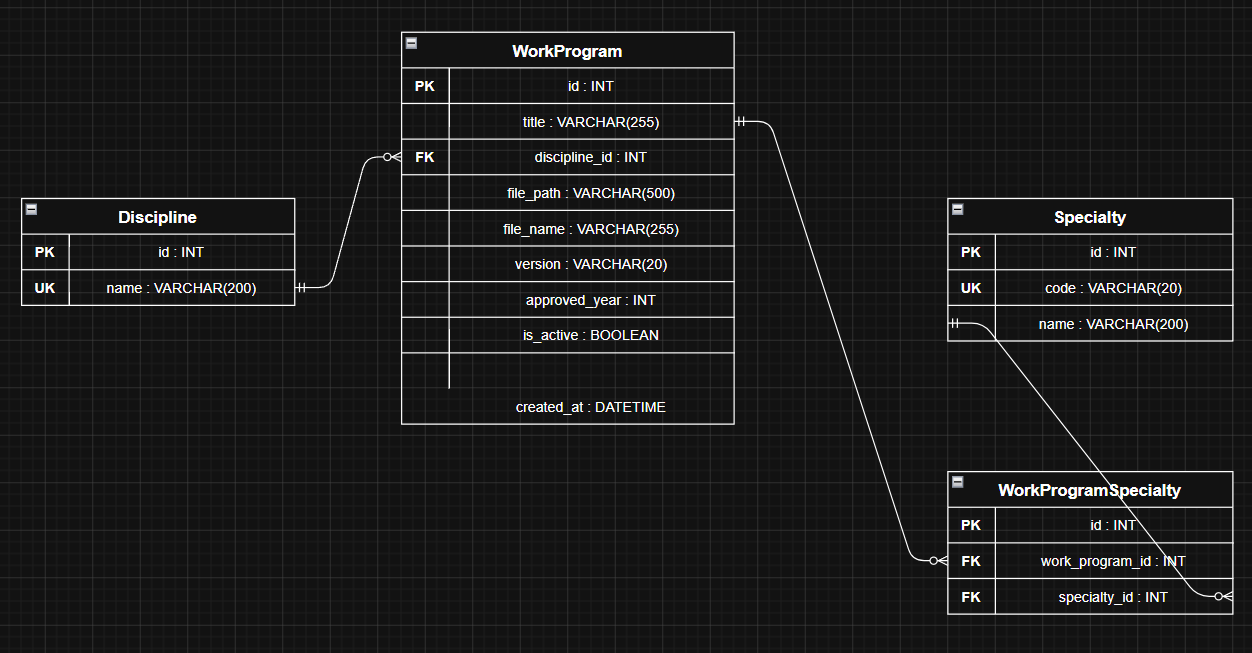
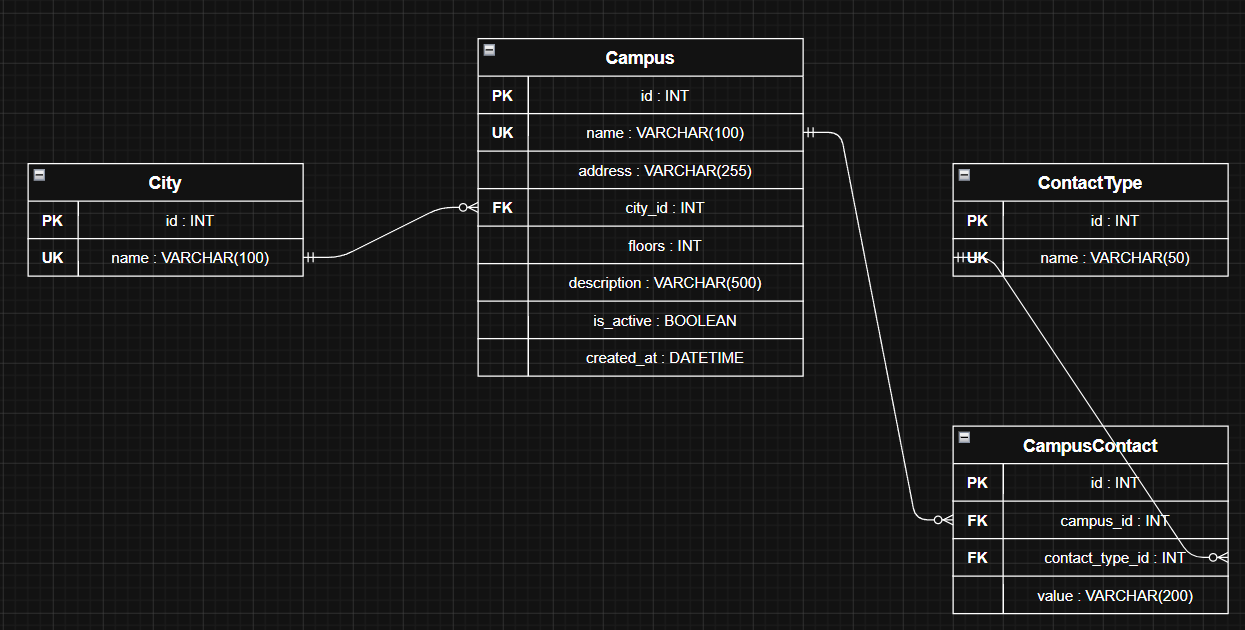
Исправлены замечания

diff --git a/S16/models.py b/S16/models.py
@@ -21,6 +21,15 @@ class City(BaseModel):
         table_name = 'cities'
 
 
+class ContactType(BaseModel):
+    """Справочник типов контактов: телефон, email, факс и т.д."""
+    id = AutoField(primary_key=True)
+    name = CharField(max_length=50, unique=True, constraints=[Check("length(name) >= 1")])
+
+    class Meta:
+        table_name = 'contact_types'
+
+
 class Campus(BaseModel):
     """Основная сущность: корпус учебного заведения"""
     id = AutoField(primary_key=True)
@@ -43,31 +52,15 @@ class Campus(BaseModel):
         self.updated_at = datetime.now()
         return super().save(*args, **kwargs)
 
-
-class CampusContact(BaseModel):
-    """Контактная информация корпуса: телефон, email и т.д.
-    Транзитивная таблица реализует связь многие-ко-многим
-    между Campus и ContactType (один корпус — много контактов,
-    один тип контакта используется во многих корпусах)"""
-    id = AutoField(primary_key=True)
-    campus = ForeignKeyField(Campus, backref='contacts', on_delete='CASCADE')
-    contact_type = ForeignKeyField('self', null=True)  # placeholder — заменяется ниже
-    value = CharField(max_length=200, constraints=[Check("length(value) >= 1")])
-
-    class Meta:
-        table_name = 'campus_contacts'
+    @classmethod
+    def soft_delete(cls, campus_id):
+        """Мягкое удаление: is_active = False. Возвращает True если деактивировано, иначе False."""
+        updated = cls.update(is_active=False).where(
+            (cls.id == campus_id) & (cls.is_active == True)
+        ).execute()
+        return updated > 0
 
 
-class ContactType(BaseModel):
-    """Справочник типов контактов: телефон, email, факс и т.д."""
-    id = AutoField(primary_key=True)
-    name = CharField(max_length=50, unique=True, constraints=[Check("length(name) >= 1")])
-
-    class Meta:
-        table_name = 'contact_types'
-
-
-# Переопределяем CampusContact с правильным FK
 class CampusContact(BaseModel):
     """Транзитивная таблица: связь многие ко многим между Campus и ContactType"""
     id = AutoField(primary_key=True)

diff --git a/S16/doc.md b/S16/doc.md
@@ -1,4 +1,4 @@
-# S16 — Campus Service (Сервис корпусов)
+# Вариант 16 — Campus Service (Сервис корпусов)
 
 Сервис управляет справочником корпусов (зданий) учебного заведения: адрес, этажность, контактная информация. **Не хранит** аудитории — они управляются Room Service.
 
@@ -6,21 +6,21 @@
 
 ## Добавить корпус
 
-Параметры, необходимые для создания корпуса:
+Информация, требуемая для создания корпуса:
 
-| Параметр    | Пояснение                  | Обязательность | Тип     | Ограничение         | Значение по умолчанию |
-|-------------|----------------------------|----------------|---------|---------------------|-----------------------|
-| name        | Название корпуса           | Да             | string  | 1–100 символов, уникально | —               |
-| address     | Адрес корпуса              | Да             | string  | 5–255 символов      | —                     |
-| city_id     | ID города                  | Да             | integer | существующий id из City | —               |
-| floors      | Количество этажей          | Да             | integer | ≥ 1                 | —                     |
-| description | Описание корпуса           | Нет            | string  | до 500 символов     | null                  |
+| Параметр    | Пояснение                  | Обязательность | Тип     | Ограничение                     | Значение по умолчанию |
+|-------------|----------------------------|----------------|---------|---------------------------------|-----------------------|
+| name        | Название корпуса           | Да             | string  | 1–100 символов, уникально       | —                     |
+| address     | Адрес корпуса              | Да             | string  | 5–255 символов                  | —                     |
+| city_id     | ID города                  | Да             | integer | существующий id из City         | —                     |
+| floors      | Количество этажей          | Да             | integer | ≥ 1                             | —                     |
+| description | Описание корпуса           | Нет            | string  | до 500 символов                 | null                  |
 
 **Уникальные комбинации параметров:**
 - `name` — название корпуса уникально в пределах всей системы.
 - `(address, city_id)` — в одном городе не может быть двух корпусов с одинаковым адресом.
 
-Данные, возвращаемые при успешном создании:
+Информация, возвращаемая при успешном создании:
 
 | Параметр    | Тип               |
 |-------------|-------------------|
@@ -38,17 +38,17 @@
 
 ## Изменить корпус по ID
 
-Параметры для изменения (все необязательны):
+Информация, требуемая для изменения (все поля необязательны):
 
-| Параметр    | Пояснение              | Обязательность | Тип     | Ограничение             |
-|-------------|------------------------|----------------|---------|-------------------------|
-| name        | Новое название         | Нет            | string  | 1–100 символов, уникально |
-| address     | Новый адрес            | Нет            | string  | 5–255 символов          |
-| city_id     | Новый город            | Нет            | integer | существующий id         |
-| floors      | Новое кол-во этажей    | Нет            | integer | ≥ 1                     |
-| description | Новое описание         | Нет            | string  | до 500 символов         |
+| Параметр    | Пояснение              | Обязательность | Тип     | Ограничение                       |
+|-------------|------------------------|----------------|---------|-----------------------------------|
+| name        | Новое название         | Нет            | string  | 1–100 символов, уникально         |
+| address     | Новый адрес            | Нет            | string  | 5–255 символов                    |
+| city_id     | Новый город            | Нет            | integer | существующий id                   |
+| floors      | Новое кол-во этажей    | Нет            | integer | ≥ 1                               |
+| description | Новое описание         | Нет            | string  | до 500 символов                   |
 
-Возвращаемые данные — полный объект корпуса (те же поля, что при создании):
+Информация, возвращаемая при успешном изменении:
 
 | Параметр    | Тип               |
 |-------------|-------------------|
@@ -66,7 +66,7 @@
 
 ## Удалить корпус по ID
 
-Возвращает `true`, если корпус был деактивирован (`is_active = false`), иначе `false`. Физически запись из БД не удаляется.
+Вернёт `true`, если корпус был деактивирован (`is_active = false`), иначе `false`. Физически запись из БД не удаляется.
 
 ---
 
@@ -86,9 +86,7 @@
 
 ---
 
-## Получить список корпусов по параметрам
-
-Параметры фильтрации:
+## Получить список корпусов по заданным параметрам
 
 | Параметр  | Пояснение                    | Тип     |
 |-----------|------------------------------|---------|
@@ -98,7 +96,7 @@
 | limit     | Кол-во записей (1–100)       | integer |
 | offset    | Смещение (≥ 0)               | integer |
 
-Возвращается массив объектов корпусов, каждый содержит:
+Информация возвращается в виде списка корпусов, каждый содержит:
 
 | Параметр    | Тип               |
 |-------------|-------------------|
@@ -124,7 +122,7 @@
 
 **Уникальные комбинации:** `(campus_id, contact_type_id)` — у корпуса может быть только один контакт каждого типа.
 
-Возвращаемые данные:
+Информация, возвращаемая при успешном создании:
 
 | Параметр        | Тип     |
 |-----------------|---------|
@@ -135,9 +133,9 @@
 
 ---
 
-## Удалить контакт корпуса по ID записи
+## Удалить контакт корпуса по ID
 
-Возвращает `true`, если запись удалена, иначе `false`.
+Вернёт `true`, если запись удалена, иначе `false`.
 
 ---
 
@@ -147,7 +145,7 @@
 |-----------|------------|---------|
 | campus_id | ID корпуса | integer |
 
-Возвращается массив объектов:
+Информация возвращается в виде списка контактов:
 
 | Параметр        | Тип     |
 |-----------------|---------|
@@ -160,18 +158,4 @@
 
 ## ER-диаграмма
 
-> Файл диаграммы: `erd.drawio` (открывается в [draw.io](https://app.diagrams.net/))
-
-![ERD](erd.drawio)
-
-```
-City        ──< Campus          (один город — много корпусов)
-Campus  >──< ContactType  через CampusContact  (многие ко многим)
-```
-
-| Таблица        | Назначение                                                          |
-|----------------|---------------------------------------------------------------------|
-| City           | Справочник городов                                                  |
-| Campus         | Основная сущность: корпус учебного заведения                        |
-| ContactType    | Справочник типов контактов: телефон, email, факс                    |
-| CampusContact  | Транзитивная таблица: контактная информация корпуса по типу         |
+![ER-диаграмма](erd.png)
